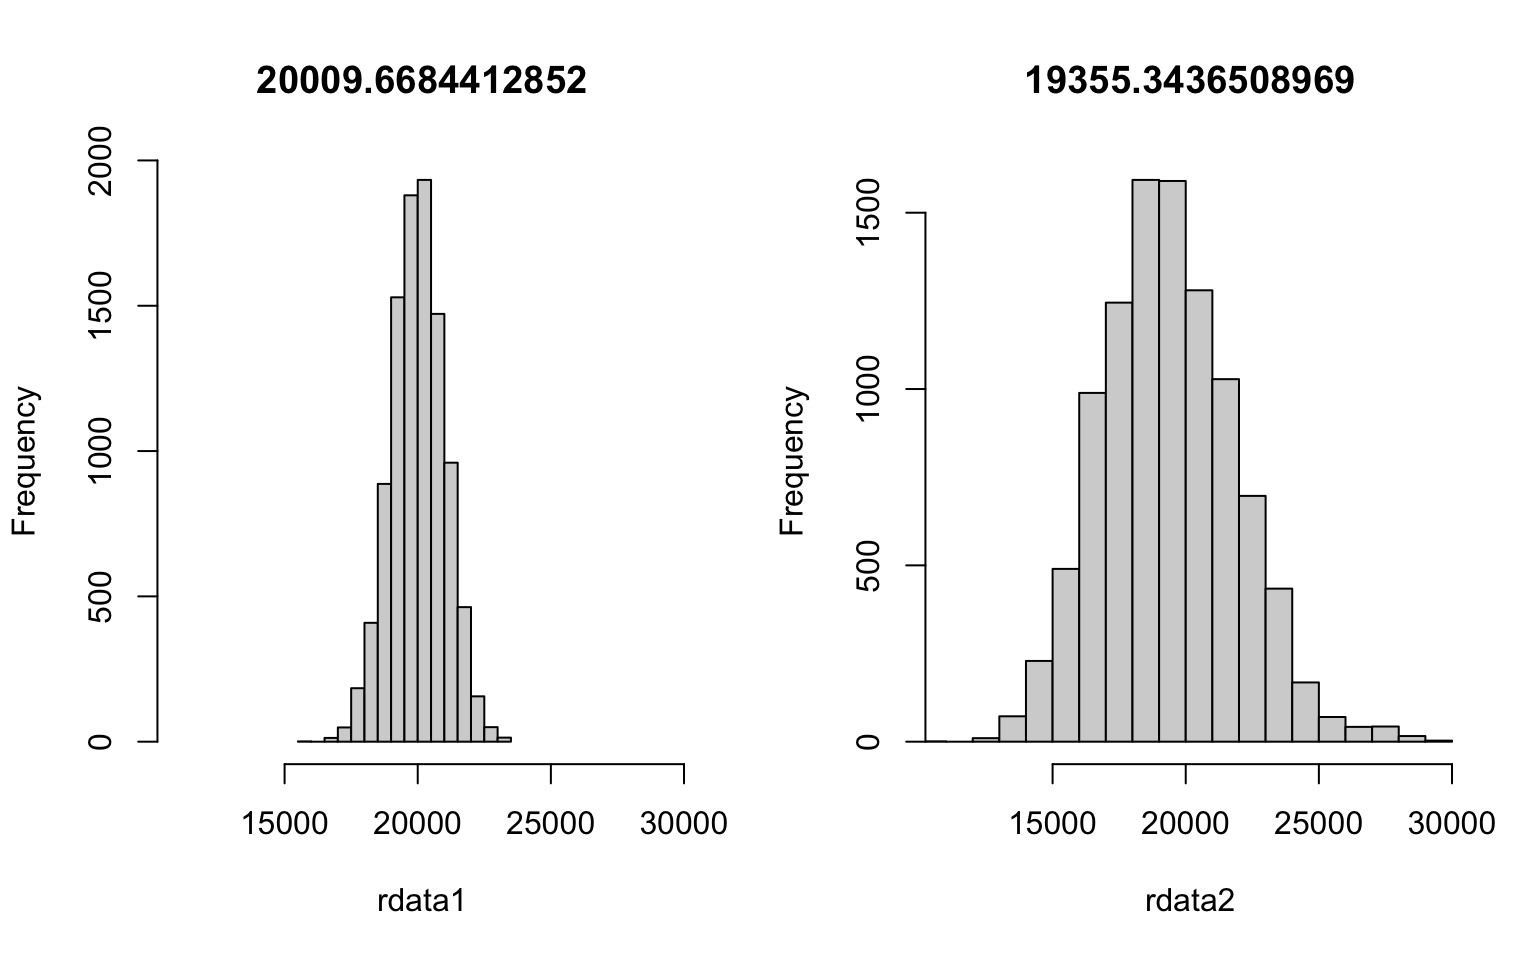
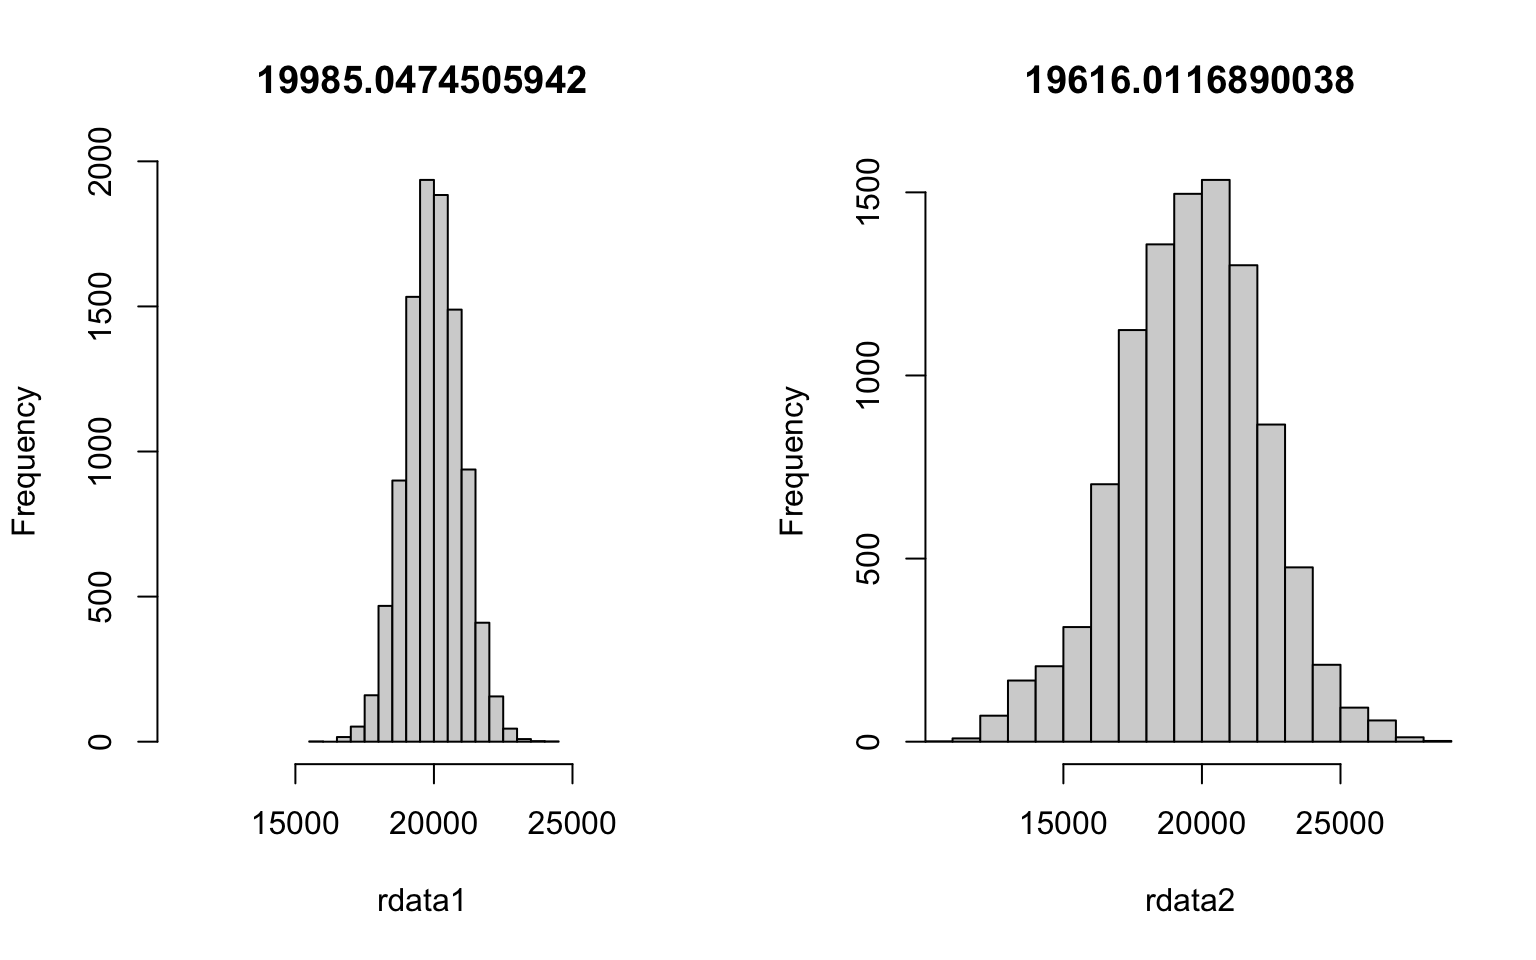
modify breaks of histgram

diff --git a/docs/baba.html b/docs/baba.html
@@ -1230,9 +1230,9 @@
 <span id="cb11-44"><a href="#cb11-44" aria-hidden="true" tabindex="-1"></a><span class="fu">par</span>(<span class="at">new=</span>F)</span>
 <span id="cb11-45"><a href="#cb11-45" aria-hidden="true" tabindex="-1"></a><span class="cf">for</span> (wf <span class="cf">in</span> <span class="dv">1</span><span class="sc">:</span>chain){</span>
 <span id="cb11-46"><a href="#cb11-46" aria-hidden="true" tabindex="-1"></a>  <span class="cf">if</span> (wf<span class="sc">&gt;</span><span class="dv">1</span>){</span>
-<span id="cb11-47"><a href="#cb11-47" aria-hidden="true" tabindex="-1"></a>    <span class="fu">hist</span>(theta[,wf], <span class="at">col=</span><span class="fu">adjustcolor</span>(wf, <span class="at">alpha.f=</span><span class="fl">0.3</span>), <span class="at">add=</span><span class="cn">TRUE</span>, <span class="at">breaks=</span><span class="fu">seq</span>(<span class="fu">floor</span>(<span class="fu">min</span>(theta)),<span class="fu">ceiling</span>(<span class="fu">max</span>(theta)),<span class="dv">1</span>))</span>
+<span id="cb11-47"><a href="#cb11-47" aria-hidden="true" tabindex="-1"></a>    <span class="fu">hist</span>(theta[,wf], <span class="at">col=</span><span class="fu">adjustcolor</span>(wf, <span class="at">alpha.f=</span><span class="fl">0.3</span>), <span class="at">add=</span><span class="cn">TRUE</span>, <span class="at">breaks=</span><span class="fu">seq</span>(<span class="fu">floor</span>(<span class="fu">min</span>(theta)),<span class="fu">ceiling</span>(<span class="fu">max</span>(theta)),<span class="fl">0.5</span>))</span>
 <span id="cb11-48"><a href="#cb11-48" aria-hidden="true" tabindex="-1"></a>  }<span class="cf">else</span>{</span>
-<span id="cb11-49"><a href="#cb11-49" aria-hidden="true" tabindex="-1"></a>    <span class="fu">hist</span>(theta[,wf], <span class="at">col=</span><span class="fu">adjustcolor</span>(wf, <span class="at">alpha.f=</span><span class="fl">0.3</span>), <span class="at">breaks=</span><span class="fu">seq</span>(<span class="fu">floor</span>(<span class="fu">min</span>(theta)),<span class="fu">ceiling</span>(<span class="fu">max</span>(theta)),<span class="dv">1</span>))</span>
+<span id="cb11-49"><a href="#cb11-49" aria-hidden="true" tabindex="-1"></a>    <span class="fu">hist</span>(theta[,wf], <span class="at">col=</span><span class="fu">adjustcolor</span>(wf, <span class="at">alpha.f=</span><span class="fl">0.3</span>), <span class="at">breaks=</span><span class="fu">seq</span>(<span class="fu">floor</span>(<span class="fu">min</span>(theta)),<span class="fu">ceiling</span>(<span class="fu">max</span>(theta)),<span class="fl">0.5</span>))</span>
 <span id="cb11-50"><a href="#cb11-50" aria-hidden="true" tabindex="-1"></a>  }</span>
 <span id="cb11-51"><a href="#cb11-51" aria-hidden="true" tabindex="-1"></a>}</span></code></pre></div>
 <p><img src="baba_files/figure-html/m-h%20method-1.png" width="768" /></p>
